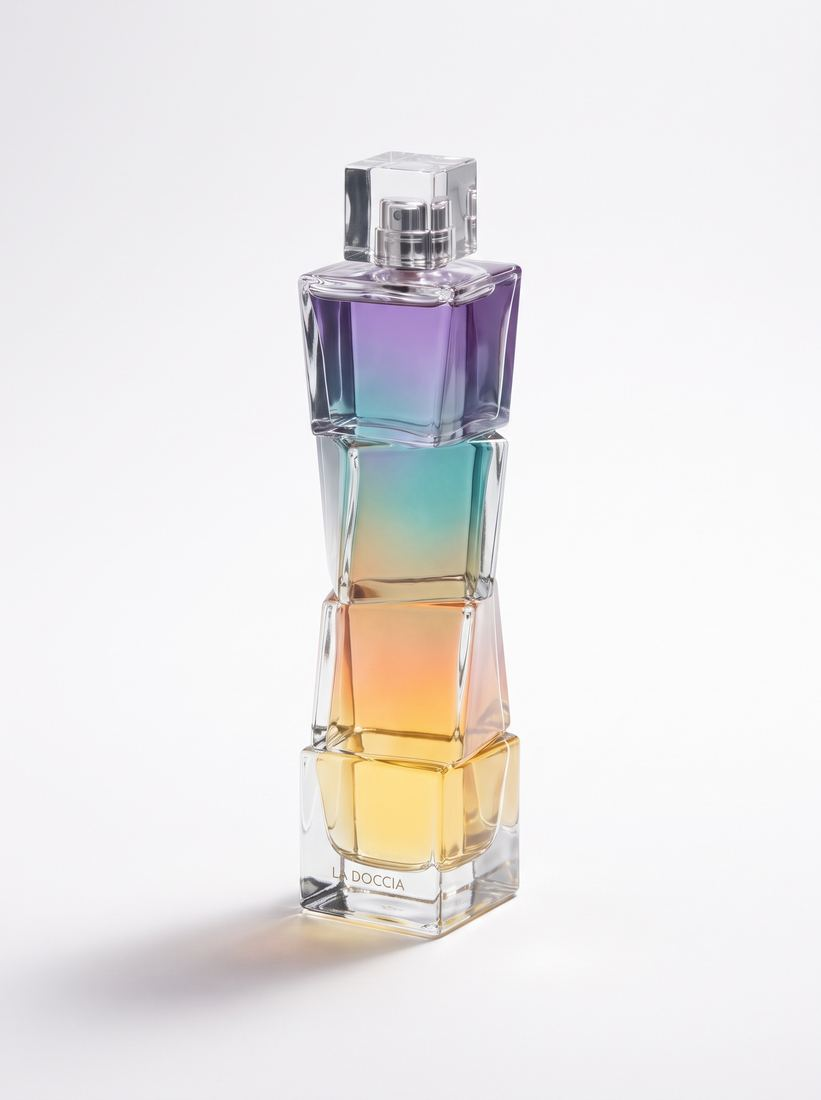
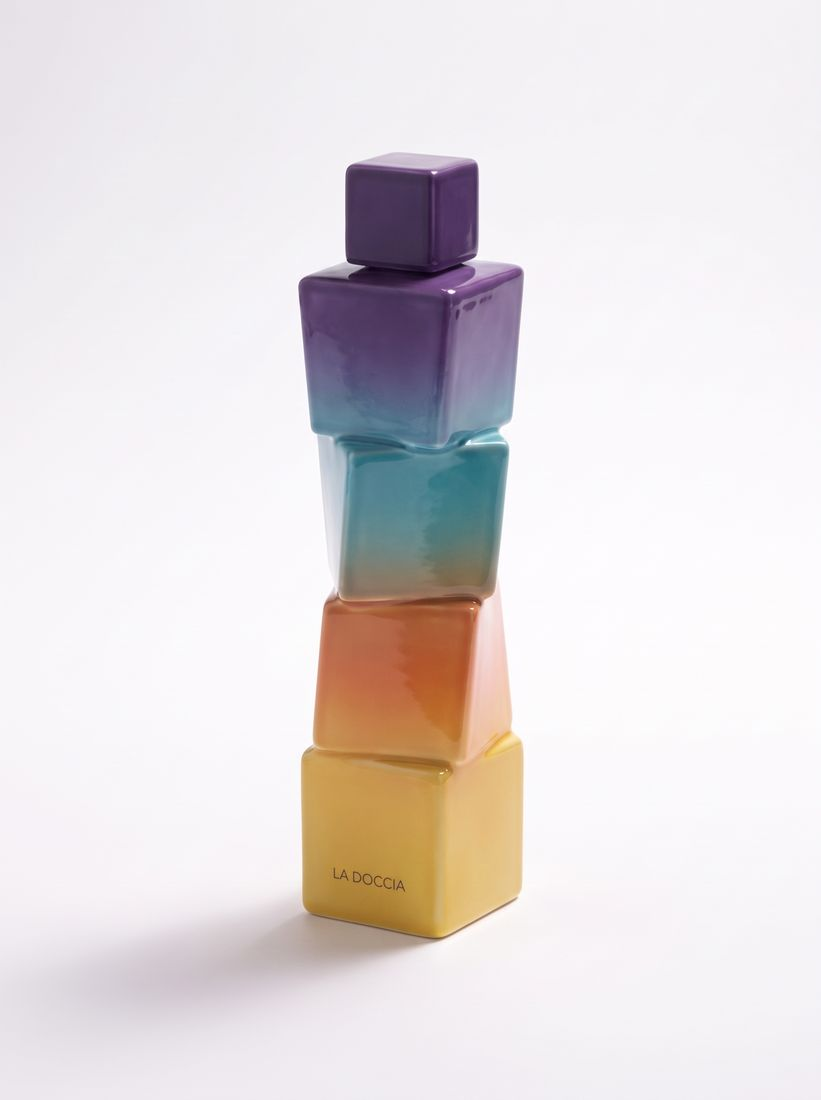
Alle Parfuems opak ohne Fugen + E-Commerce Szenenbilder als Galerie
- Torre, Quattro, Duo, Piccolo, Grattacielo, Cubo: Hauptbilder opak (lackierte Keramik-Optik, keine Transparenz)
- Blocco: komplett neu als opaker Farbblock mit Golddeckel (alte Glas-Version ersetzt)
- Je Parfuem ein Luxus-Szenenbild als zweites Galeriebild (img2/gal)

Changed region(s): [[0.3654, 0.1236, 0.6395, 0.8655]]

diff --git a/index.html b/index.html
@@ -2101,7 +2101,7 @@ const P=[
  {id:'p106',cat:'mode',sc:'sport',who:'damen',n:'Trainings-Top „Flow“',p:29,img:'assets/p/106_a.jpg',img2:'assets/p/106_b.jpg',gal:['assets/p/106_b.jpg'],r:4.7,rv:9,badge:'Neu',mat:'100 % recyceltes Polyester',sizes:["XS","S","M","L"],rel:["p106","p105","p105"],d:'Lässiges weißes Trainingsshirt mit überschnittenen Schultern — luftig über Bra und Leggings.',x:'Federleicht und atmungsaktiv, bleibt geruchsneutral. Bei 30 °C waschen.'},
  {id:'p108',cat:'mode',sc:'sport',who:'damen',n:'Sporttasche „Palestra“',p:49,img:'assets/p/108_neu_a.jpg',colors:[4,5,2],cimg:{Weiß:'assets/p/108_neu_a.jpg',Schwarz:'assets/p/108_schwarz.jpg','Türkis':'assets/p/108_tuerkis.jpg'},r:4.9,rv:6,badge:'Neu',mat:'100 % recyceltes Polyester',rel:["p109","p105","p105"],d:'Die Trainingstasche nach eigener Skizze: gewölbter Deckel, vier Quadrat-Fenster in den Markenfarben auf der Front.',x:'Wasserabweisendes Gewebe, Schuhfach, abwischbarer Boden. Bei 30 °C von Hand waschen.'},
  {id:'p109',cat:'mode',sc:'sport',who:'damen',n:'Trinkflasche „Idra“, 750 ml',p:24,img:'assets/p/109_a.jpg',img2:'assets/p/109_b.jpg',gal:['assets/p/109_b.jpg'],r:4.8,rv:11,badge:'Neu',rel:["p108","p105","p109"],d:'Doppelwandige Edelstahlflasche in mattem Türkis mit den vier Quadraten — hält 24 h kalt.',x:'Auslaufsicher, passt in gängige Flaschenhalter. Von Hand spülen, nicht für kohlensäurehaltige Getränke.'},
- {id:'p128',cat:'parfuem',sc:'edp',n:'Eau de Parfum „Blocco“, 50 ml',p:159,img:'assets/p/128_a.jpg',r:5.0,rv:2,badge:'Neu',rel:["p128","p140","p142"],d:'Vier Würfel aus sattem Farbglas — Gelb, Orange, Türkis, Violett — übereinander, gekrönt vom runden Golddeckel. Unser Signature-Turm.',x:'14 % Duftölanteil: Ambra, Zeder und ein Hauch Salz. Design geschützt, Erstveröffentlichung dokumentiert.'},
+ {id:'p128',cat:'parfuem',sc:'edp',n:'Eau de Parfum „Blocco“, 50 ml',p:159,img:'assets/p/128_a.jpg',img2:'assets/p/128_b.jpg',gal:["assets/p/128_b.jpg"],r:5.0,rv:2,badge:'Neu',rel:["p128","p140","p142"],d:'Vier Würfel aus sattem Farbglas — Gelb, Orange, Türkis, Violett — übereinander, gekrönt vom runden Golddeckel. Unser Signature-Turm.',x:'14 % Duftölanteil: Ambra, Zeder und ein Hauch Salz. Design geschützt, Erstveröffentlichung dokumentiert.'},
  {id:'p130',cat:'mode',sc:'kleidung',who:'herren',n:'Poloshirt „Marina Oro“',p:129,img:'assets/p/130_a.jpg',r:5.0,rv:2,badge:'Neu',mat:'100 % Piqué-Baumwolle (schwere Qualität)',sizes:["S","M","L","XL"],rel:["p120","p131","p122"],d:'Die Premium-Schiene: weißes Piqué-Polo mit goldenen Quadrat-Knöpfen, goldenem Logostick und der sichtbaren goldenen Ziernaht — unsere Handschrift, die alle anderen verstecken.',x:'Fette Kontrastnähte an Schulter, Kragen und Knopfleiste. Bei 30 °C waschen, in Form ziehen.'},
  {id:'p131',cat:'mode',sc:'kleidung',who:'herren',n:'Hemd „Camicia“',p:119,img:'assets/p/131_a.jpg',r:4.9,rv:2,badge:'Neu',mat:'100 % Baumwolle (Oxford)',sizes:["S","M","L","XL"],rel:["p130","p120","p122"],d:'Weißes Hemd, komplett zum Öffnen: goldene Quadrat-Knöpfe über die ganze Leiste, türkise Ziernähte an Schultern und Manschetten, Brusttasche mit Logostick.',x:'Sichtbare Nähte als Markenzeichen — wirkt unzerreißbar. Bei 40 °C waschen, bügelleicht.'},
  {id:'p132',cat:'mode',sc:'schuhe',who:'damen',n:'Sneaker „Scintilla“',p:169,img:'assets/p/132_a.jpg',colors:[4,5],cimg:{Weiß:'assets/p/132_a.jpg',Schwarz:'assets/p/132_schwarz.jpg'},r:5.0,rv:3,badge:'Neu',mat:'Leder, Gummisohle',sizes:["36","37","38","39","40","41"],rel:["p64","p116","p117"],d:'Die Premium-Schiene: weißer Ledersneaker mit goldenen Ziernähten an jeder Kante und dem funkelnden Kristall-Quadrat an der Ferse — strahlt, sobald die Sonne drauffällt.',x:'Kristallbesatz aus geschliffenem Acryl, geprägtes LA DOCCIA an der Ferse. Mit Ledertuch pflegen.'},
@@ -2111,20 +2111,20 @@ const P=[
  {id:'p136',cat:'mode',sc:'taschen',who:'damen',n:'Handtasche „Quadra Mini“',p:129,img:'assets/p/136_a.jpg',r:5.0,rv:2,badge:'Neu',mat:'Genarbtes Leder, goldene Kette',rel:["p117","p137","p132"],d:'Die kleine Quadra für den Abend: kompakt, streng quadratisch, mit goldener Kette und dem funkelnden Kristall-Quadrat.',x:'Kette abnehmbar, Platz für Telefon, Karte und Lippenbalsam. Goldene Hardware.'},
  {id:'p137',cat:'mode',sc:'taschen',who:'damen',n:'Baguette „Lunga“',p:149,img:'assets/p/137_a.jpg',r:4.9,rv:2,badge:'Neu',mat:'Genarbtes Leder',rel:["p117","p136","p116"],d:'Die längliche Form der Familie: schmale Baguette-Tasche mit exakt geraden Kanten, goldener Ziernaht und den vier goldgefassten Quadraten auf der Front.',x:'Unter den Arm oder in die Hand — Magnetverschluss, goldene Füße am Boden.'},
  {id:'p138',cat:'mode',sc:'kleidung',who:'herren',n:'Sommerhemd „Quadri“',p:109,img:'assets/p/138_a.jpg',r:4.9,rv:2,badge:'Neu',mat:'100 % Baumwolle',sizes:["S","M","L","XL"],rel:["p131","p130","p122"],d:'Das Sommerhemd mit dem gestreuten Quadrate-Print — wie Farbtropfen im Regen, elegant statt laut. Goldene Quadrat-Knöpfe, türkise Ziernaht am Kragen.',x:'Reverskragen, gerader Saum — lässt sich offen oder geschlossen tragen. Bei 30 °C waschen.'},
- {id:'p140',cat:'parfuem',sc:'edp',n:'Eau de Parfum „Duo“, 30 ml',p:99,img:'assets/p/140_a.jpg',r:4.9,rv:2,badge:'Neu',rel:["p128","p141","p128"],d:'Zwei Würfel, zwei Farben: Türkis unten, Violett oben, ein geschlossener Block — der kleine Bruder des Turms. Die Öffnung sitzt unsichtbar im oberen Würfel.',x:'12 % Duftölanteil. Handlich fürs Regal und die Reise.'},
- {id:'p141',cat:'parfuem',sc:'edp',n:'Eau de Parfum „Piccolo“, 15 ml',p:59,img:'assets/p/141_a.jpg',r:4.9,rv:3,badge:'Neu',rel:["p140","p128","p141"],d:'Ein einzelner Würfel in Gelb mit Golddeckel — das Reiseformat der Turm-Familie, klein wie ein Schmuckstück.',x:'Flugtauglich unter 100 ml. Auch schön als Geschenk zum Kennenlernen.'},
- {id:'p142',cat:'parfuem',sc:'edp',n:'Eau de Parfum „Grattacielo“, 75 ml',p:189,img:'assets/p/142_a.jpg',r:5.0,rv:2,badge:'Neu',rel:["p128","p128","p140"],d:'Der Wolkenkratzer: sechs dünne Glasscheiben in den Markenfarben übereinander, oben bündig geschlossen — das große Format der Familie.',x:'15 % Duftölanteil — der langlebigste Duft der Kollektion.'},
+ {id:'p140',cat:'parfuem',sc:'edp',n:'Eau de Parfum „Duo“, 30 ml',p:99,img:'assets/p/140_a.jpg',img2:'assets/p/140_b.jpg',gal:["assets/p/140_b.jpg"],r:4.9,rv:2,badge:'Neu',rel:["p128","p141","p128"],d:'Zwei Würfel, zwei Farben: Türkis unten, Violett oben, ein geschlossener Block — der kleine Bruder des Turms. Die Öffnung sitzt unsichtbar im oberen Würfel.',x:'12 % Duftölanteil. Handlich fürs Regal und die Reise.'},
+ {id:'p141',cat:'parfuem',sc:'edp',n:'Eau de Parfum „Piccolo“, 15 ml',p:59,img:'assets/p/141_a.jpg',img2:'assets/p/141_b.jpg',gal:["assets/p/141_b.jpg"],r:4.9,rv:3,badge:'Neu',rel:["p140","p128","p141"],d:'Ein einzelner Würfel in Gelb mit Golddeckel — das Reiseformat der Turm-Familie, klein wie ein Schmuckstück.',x:'Flugtauglich unter 100 ml. Auch schön als Geschenk zum Kennenlernen.'},
+ {id:'p142',cat:'parfuem',sc:'edp',n:'Eau de Parfum „Grattacielo“, 75 ml',p:189,img:'assets/p/142_a.jpg',img2:'assets/p/142_b.jpg',gal:["assets/p/142_b.jpg"],r:5.0,rv:2,badge:'Neu',rel:["p128","p128","p140"],d:'Der Wolkenkratzer: sechs dünne Glasscheiben in den Markenfarben übereinander, oben bündig geschlossen — das große Format der Familie.',x:'15 % Duftölanteil — der langlebigste Duft der Kollektion.'},
  {id:'p143',cat:'mode',sc:'jacken',who:'herren',n:'Daunenjacke „Piuma“',p:249,img:'assets/p/143_schwarz.jpg',colors:[5,2,4],cimg:{Schwarz:'assets/p/143_schwarz.jpg','Türkis':'assets/p/143_tuerkis.jpg',Weiß:'assets/p/143_weiss.jpg'},r:5.0,rv:2,badge:'Neu',mat:'Recyceltes Polyamid, Daune (RDS)',sizes:["S","M","L","XL"],rel:["p126","p146","p130"],d:'Unsere Daunenjacke mit dem Quadrat-Stepp: statt Querstreifen wölbt sich jede Kammer als Quadrat. Goldener Reißverschluss, Brustbadge mit den vier Quadraten.',x:'Warm, leicht, wasserabweisend. Bei 30 °C im Schonwaschgang, mit Tennisbällen trocknen.'},
  {id:'p144',cat:'mode',sc:'jacken',who:'damen',n:'Daunenjacke „Piuma Donna“',p:229,img:'assets/p/144_violett.jpg',colors:[3,4,1],cimg:{Violett:'assets/p/144_violett.jpg',Weiß:'assets/p/144_weiss.jpg',Orange:'assets/p/144_orange.jpg'},r:5.0,rv:3,badge:'Neu',mat:'Recyceltes Polyamid, Daune (RDS)',sizes:["XS","S","M","L"],rel:["p143","p117","p116"],d:'Die cropped Version mit Quadrat-Steppung und Goldzipper — Volumen oben, Taille frei.',x:'Warm, federleicht, wasserabweisend. Bei 30 °C im Schonwaschgang.'},
  {id:'p145',cat:'mode',sc:'kleidung',who:'damen',n:'Strickpullover „Quadretti“',p:149,img:'assets/p/145_creme.jpg',colors:[4,5],cimg:{Weiß:'assets/p/145_creme.jpg',Schwarz:'assets/p/145_anthrazit.jpg'},r:4.9,rv:2,badge:'Neu',mat:'70 % Wolle, 30 % Baumwolle',sizes:["XS","S","M","L"],rel:["p134","p144","p116"],d:'Cremefarbener Strick mit eingestrickten Hohlquadraten in den vier Markenfarben — verspielt, aber teuer gedacht. Goldfaden an Kragen und Bündchen.',x:'Intarsien-Strick, kein Aufdruck. Handwäsche oder Wollprogramm.'},
  {id:'p146',cat:'mode',sc:'kleidung',who:'herren',n:'Track-Jacke „Pista“',p:179,img:'assets/p/146_weiss.jpg',colors:[4,5],cimg:{Weiß:'assets/p/146_weiss.jpg',Schwarz:'assets/p/146_schwarz.jpg'},r:4.9,rv:2,badge:'Neu',mat:'Technischer Jersey',sizes:["S","M","L","XL"],rel:["p143","p133","p122"],d:'Retro-Sportjacke mit dem Quadrate-Band an beiden Ärmeln und goldener Stickerei — Sport als Mode.',x:'Rippkragen mit Türkis-Orange-Tipping. Bei 30 °C waschen.'},
  {id:'p147',cat:'mode',sc:'jacken',who:'kinder',n:'Kinder-Daunenjacke „Piumino“',p:119,img:'assets/p/147_gelb.jpg',colors:[0,2],cimg:{Gelb:'assets/p/147_gelb.jpg','Türkis':'assets/p/147_tuerkis.jpg'},r:5.0,rv:2,badge:'Neu',mat:'Recyceltes Polyamid, Wattierung',sizes:["98/104","110/116","122/128"],rel:["p82","p83","p87"],d:'Die Mini-Piuma: Quadrat-Steppung, kuschelige Kapuze mit farbigem Futter und das Badge mit den vier Quadraten.',x:'Wattiert statt Daune — pflegeleicht und tierfreundlich. Bei 30 °C waschbar.'},
- {id:'p148',cat:'parfuem',sc:'edp',n:'Eau de Parfum „Torre“, 100 ml',p:199,img:'assets/p/148_a.jpg',r:5.0,rv:2,badge:'Neu',rel:["p128","p142","p128"],d:'Der große Turm: fünf Farbwürfel übereinander, und die Wortmarke läuft senkrecht über die Kanten — die Quadrate sitzen mitten in den Buchstaben. Das Sammlerstück der Kollektion.',x:'15 % Duftölanteil, 100 ml. Der oberste Würfel ist der Deckel. Design geschützt.'},
+ {id:'p148',cat:'parfuem',sc:'edp',n:'Eau de Parfum „Torre“, 100 ml',p:199,img:'assets/p/148_a.jpg',img2:'assets/p/148_b.jpg',gal:["assets/p/148_b.jpg"],r:5.0,rv:2,badge:'Neu',rel:["p128","p142","p128"],d:'Der große Turm: fünf Farbwürfel übereinander, und die Wortmarke läuft senkrecht über die Kanten — die Quadrate sitzen mitten in den Buchstaben. Das Sammlerstück der Kollektion.',x:'15 % Duftölanteil, 100 ml. Der oberste Würfel ist der Deckel. Design geschützt.'},
  {id:'p110',cat:'textil',sc:'maentel',who:'kinder',n:'Kinder-Bademantel „Nuvola“',p:44,img:'assets/p/110_a.jpg',img2:'assets/p/110_b.jpg',gal:['assets/p/110_b.jpg'],r:4.9,rv:12,badge:'Neu',mat:'100 % Baumwolle (Frottee)',sizes:["98/104","110/116","122/128"],rel:["p111","p82","p87"],d:'Türkiser Frottee-Bademantel mit Kapuze und Quadrate-Futter in Gelb — kuschelig nach Bad und Schwimmkurs.',x:'Saugstarkes Frottee, aufgesetzte Taschen, Aufhänger im Kragen. Bei 60 °C waschbar.'},
  {id:'p111',cat:'textil',sc:'tuecher',who:'kinder',n:'Kinder-Poncho „Onda“',p:29,img:'assets/p/111_a.jpg',img2:'assets/p/111_b.jpg',gal:['assets/p/111_b.jpg'],r:4.8,rv:9,badge:'Neu',mat:'100 % Baumwolle',rel:["p110","p84","p86"],d:'Sonnengelber Kapuzen-Poncho aus Frottee mit orangem Saum und Quadrate-Bordüre — überwerfen, fertig.',x:'Für Schwimmbad und Strand, trocknet schnell, eine Größe für 2–6 Jahre. Bei 60 °C waschbar.'},
  {id:'p112',cat:'mode',sc:'acc',who:'kinder',n:'Kinder-Regenschirm „Goccia“',p:22,img:'assets/p/112_a.jpg',img2:'assets/p/112_b.jpg',gal:['assets/p/112_b.jpg'],r:4.9,rv:8,badge:'Neu',rel:["p82","p83","p85"],d:'Oranger Kinderschirm mit Quadrate-Kante und türkisem Griff — Regen wird zum Lieblingswetter.',x:'Leichtgängig zu öffnen, abgerundete Spitzen, Ø 72 cm. Griff für kleine Hände.'},
- {id:'p113',cat:'parfuem',sc:'edp',n:'Eau de Parfum „Quattro“, 50 ml',p:159,img:'assets/p/113_a.jpg',r:5.0,rv:4,badge:'Neu',rel:["p128","p148","p140"],d:'Vier gefrostete Farbsegmente in einer Flasche — Gelb, Orange, Türkis, Violett. Kein sichtbarer Deckel: die Öffnung sitzt unsichtbar im obersten Segment.',x:'13 % Duftölanteil, hält 7–9 Stunden. Design geschützt, Erstveröffentlichung dokumentiert.'},
- {id:'p114',cat:'parfuem',sc:'edp',n:'Eau de Parfum „Cubo“, 50 ml',p:139,img:'assets/p/114_a.jpg',r:4.9,rv:3,badge:'Neu',rel:["p113","p128","p113"],d:'Der Turm aus vier Würfeln: jeder leicht gegen den nächsten gedreht, innen fließt der Duft von Gelb nach Violett. Ein Guss, klare Kanten, Würfelkappe.',x:'12 % Duftölanteil, hält 6–8 Stunden. Steht wie ein Designobjekt im Regal — genau so gedacht.'},
+ {id:'p113',cat:'parfuem',sc:'edp',n:'Eau de Parfum „Quattro“, 50 ml',p:159,img:'assets/p/113_a.jpg',img2:'assets/p/113_b.jpg',gal:["assets/p/113_b.jpg"],r:5.0,rv:4,badge:'Neu',rel:["p128","p148","p140"],d:'Vier gefrostete Farbsegmente in einer Flasche — Gelb, Orange, Türkis, Violett. Kein sichtbarer Deckel: die Öffnung sitzt unsichtbar im obersten Segment.',x:'13 % Duftölanteil, hält 7–9 Stunden. Design geschützt, Erstveröffentlichung dokumentiert.'},
+ {id:'p114',cat:'parfuem',sc:'edp',n:'Eau de Parfum „Cubo“, 50 ml',p:139,img:'assets/p/114_a.jpg',img2:'assets/p/114_b.jpg',gal:["assets/p/114_b.jpg"],r:4.9,rv:3,badge:'Neu',rel:["p113","p128","p113"],d:'Der Turm aus vier Würfeln: jeder leicht gegen den nächsten gedreht, innen fließt der Duft von Gelb nach Violett. Ein Guss, klare Kanten, Würfelkappe.',x:'12 % Duftölanteil, hält 6–8 Stunden. Steht wie ein Designobjekt im Regal — genau so gedacht.'},
  {id:'p116',cat:'mode',sc:'schuhe',who:'damen',n:'Plateau-Sneaker „Nuvola“',p:139,img:'assets/p/116_a.jpg',colors:[4,2,0],cimg:{Weiß:'assets/p/116_a.jpg','Türkis':'assets/p/116_tuerkis.jpg',Gelb:'assets/p/116_gelb.jpg'},r:4.9,rv:2,badge:'Neu',mat:'Canvas, Gummisohle',sizes:["36","37","38","39","40","41"],rel:["p64","p65","p105"],d:'Der Statement-Sneaker: cremeweiße Bumper-Sohle mit weicher, runder Kappe — wolkig dick, federleicht getragen.',x:'Geprägtes LA DOCCIA an der Ferse, vier gestickte Quadrate am Schaft. Sohle abwischbar, Obermaterial imprägniert.'},
  {id:'p117',cat:'mode',sc:'taschen',who:'damen',n:'Handtasche „Quadra“',p:189,img:'assets/p/117_neu_a.jpg',colors:[6,5,7],cimg:{Gold:'assets/p/117_neu_a.jpg',Schwarz:'assets/p/117_naht-schwarz.jpg','Grün':'assets/p/117_naht-gruen.jpg'},r:4.9,rv:3,badge:'Neu',mat:'Genarbtes Leder, Baumwollfutter',rel:["p136","p137","p132"],d:'Streng quadratisch mit eckigen Griffen und dem goldgefassten Kristall-Quadrat. Die Ziernaht wählen Sie selbst: Gold, Schwarz oder Grün — unsere Handschrift, Ihre Entscheidung.',x:'Goldene Hardware, Magnetverschluss, Innenfach mit Reißverschluss.'},
  {id:'p118',cat:'mode',sc:'kleidung',who:'herren',n:'T-Shirt „Essenziale“',p:79,img:'assets/p/118_a.jpg',img2:'assets/p/118_b.jpg',gal:['assets/p/118_b.jpg','assets/p/118_video.mp4'],r:4.9,rv:4,badge:'Neu',mat:'100 % Bio-Baumwolle, 220 g/m²',sizes:["S","M","L","XL"],rel:["p130","p131","p122"],d:'Das schwere off-white T-Shirt mit den vier großen Hohlquadraten und der Serifen-Wortmarke auf der Brust — das Statement-Piece der Herrenlinie.',x:'Vorgewaschen, verstärkte Schulternähte, Rippkragen mit türkiser Linie. Bei 30 °C waschen.'},
